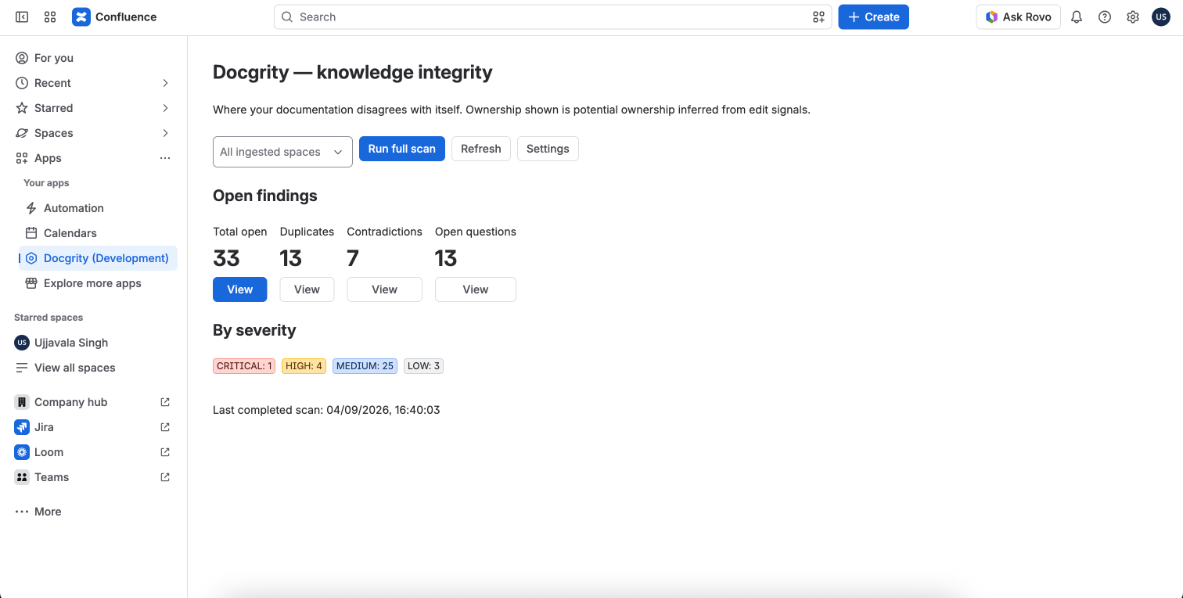
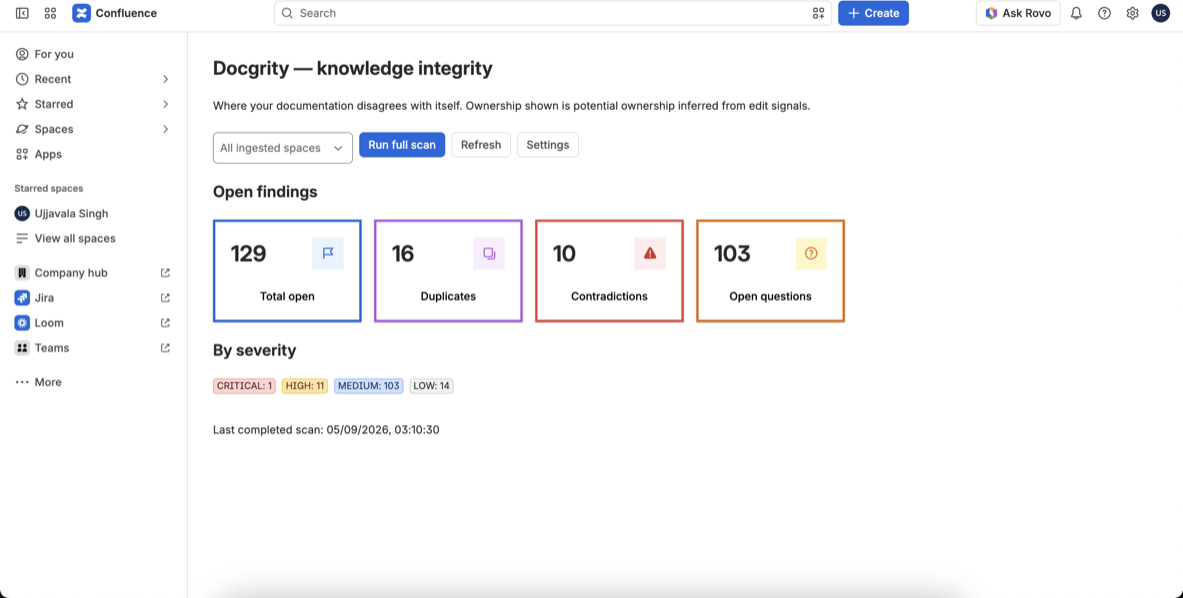
Update dashboard screenshot to new clickable tile UI; refresh walkthrough copy

diff --git a/how-it-works.html b/how-it-works.html
@@ -44,8 +44,8 @@
 
   <section>
     <h2><span class="num">1</span>Run a scan</h2>
-    <p class="lede">Open Docgrity from the Confluence Apps menu and hit <strong>Run full scan</strong>. The agent reads your pages (using your own AI provider key), compares claims across pages and produces open findings grouped by type and severity. Here: 33 findings — 13 duplicates, 7 contradictions and 13 open questions.</p>
-    <figure><img src="screenshots/shot_01.png" alt="Docgrity overview dashboard showing 33 open findings with severity breakdown"><figcaption>The overview dashboard after a completed scan, with counts by finding type and severity.</figcaption></figure>
+    <p class="lede">Open Docgrity from the Confluence Apps menu and hit <strong>Run full scan</strong>. The agent reads your pages (using your own AI provider key), compares claims across pages and produces open findings grouped by type and severity — shown as clickable tiles. Here: 129 findings — 16 duplicates, 10 contradictions and 103 open questions.</p>
+    <figure><img src="screenshots/shot_01.png" alt="Docgrity overview dashboard showing 129 open findings as colour-coded tiles with severity breakdown"><figcaption>The overview dashboard after a completed scan: click any tile to drill into that finding type.</figcaption></figure>
   </section>
 
   <section>
